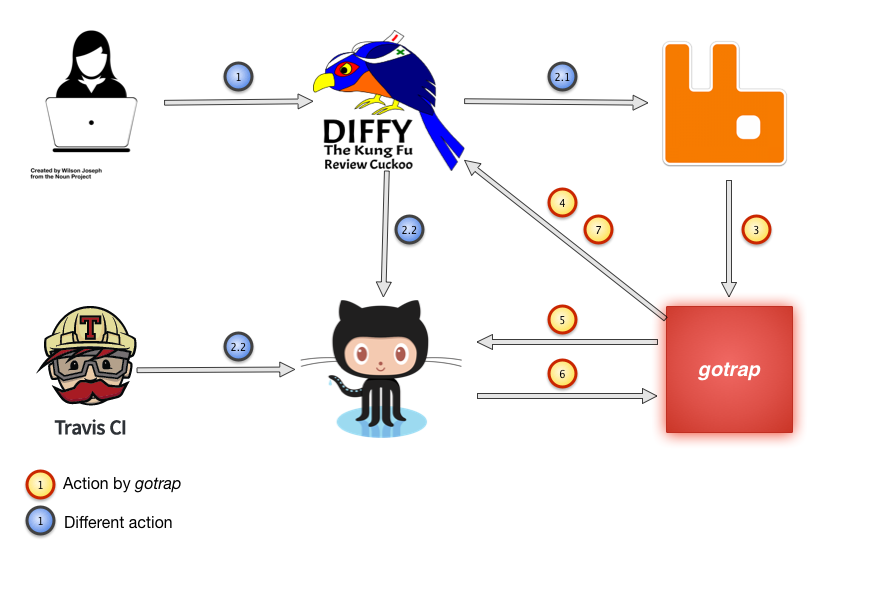
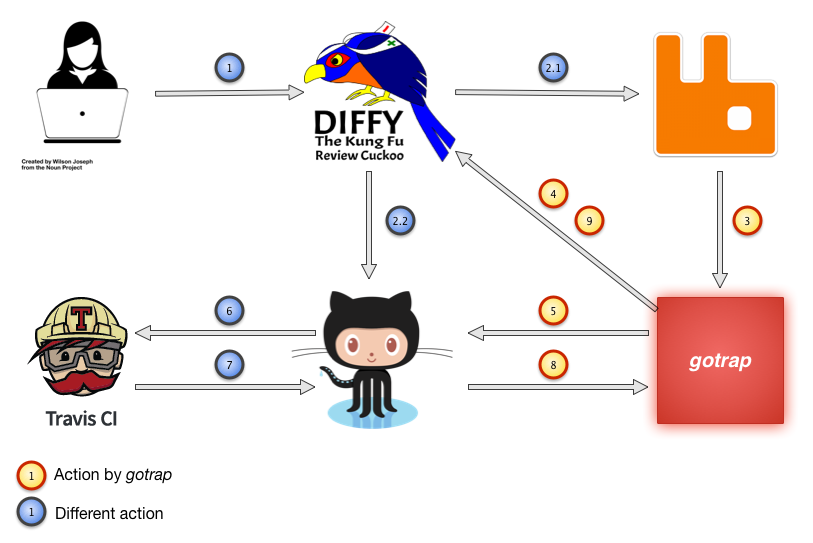
Added "How gotrap works"

Changed region(s): [[0.0, 0.0295, 0.984, 0.9724], [0.0308, 0.0295, 0.1538, 0.3241]]

diff --git a/README.md b/README.md
@@ -345,7 +345,19 @@ One disadvantages of this will be that you have to keep your plugin in sync with
 
 ### How does gotrap works?
 
-TODO
+[![How gotrap works](./docs/how-gotrap-works.png)](https://github.com/andygrunwald/gotrap)
+
+1. A contributer pushes a new Changeset or Patchset to Gerrit.
+2. The next two steps will be (nearly) done at the same time
+	1. The Gerrit plugin `gerrit-rabbitmq-plugin` will push a new event into the configured RabbitMQ broker.
+	2. The Gerrit plugin `replication` will synchronize the new Changeset or Patchset to the configured Github repository.
+3. *gotrap* will receive the pushed AMQP message.
+4. *gotrap* will check if the patchset from the AMQP event is the current patchset of the Changeset in Gerrit (sometimes contributer pushes new patchset really fast and before we started working on the first message. To avoid "double work" we got this sanity check).
+5. *gotrap* checks if the patchset is already synced as branch and creates a new merge request.
+6. Github will trigger Travis CI.
+7. If Travis CI is finished, it will report back the results to the Commit Status API. 
+8. Until Travis CI is done *gotrap* will check (via long polling) if Travis CI reports the results already.
+9. *gotrap* post the results of the Commit Status API as comment in the Changeset of Gerrit and closes the pull request on github.
 
 ### Why JSON as config file format?
 
